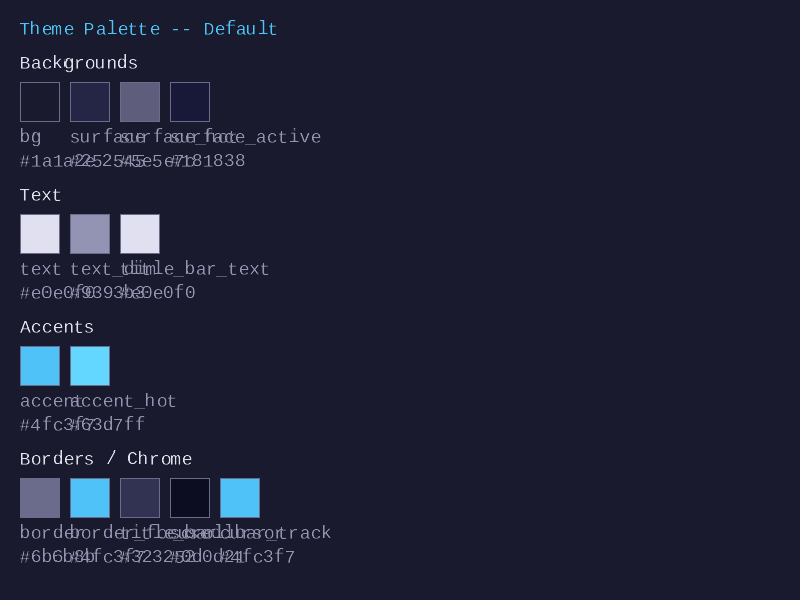
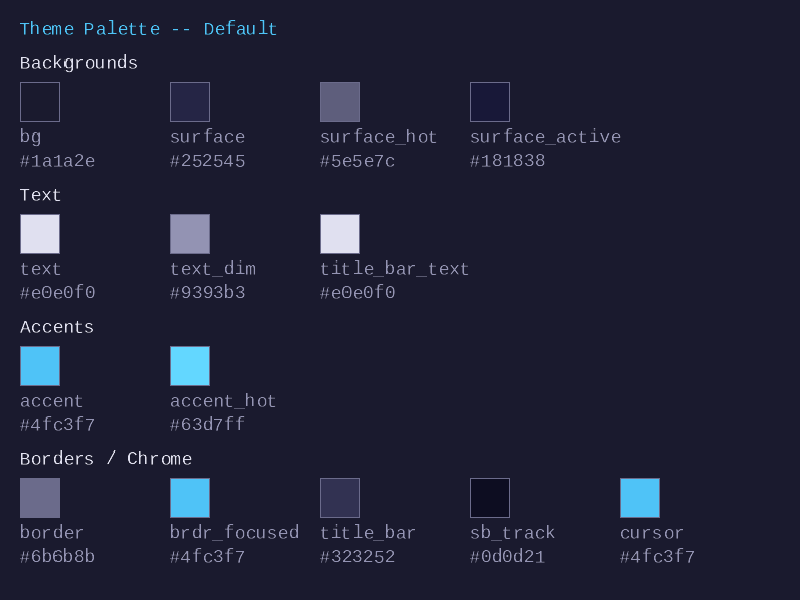
Address PR #164 round 2 review feedback
- Move slider min/max bounds check before *value mutation so invalid
  bounds never touch caller state (forge_ui_ctx.h)
- Fix contrast scale gradient off-by-one: sample full [1, 21] range
  using (n_segments - 1) denominator (ui_diagrams.py)
- Replace SDL_Color with ForgeUiColor in struct diagram display to
  match the actual type name (ui_diagrams.py)
- Extract label test literals into named constants (LABEL_TEST_X/Y/R/
  G/B/A) and use them across all label tests (test_ui_ctx.c)
- Assert clamped channel values in out-of-range label_colored test to
  verify [0,1] clamping (test_ui_ctx.c)
- Add runtime log+cap alongside SDL_assert for validation pair count
  drift so the check works in release builds (lesson 13 main.c)
- Fix swatch layout: split SWATCH_GAP into SWATCH_PITCH (150px
  horizontal) and SWATCH_VGAP (10px vertical) to prevent label overlap;
  abbreviate long slot names (lesson 13 main.c, frame1_palette.png)

diff --git a/tests/ui/test_ui_ctx.c b/tests/ui/test_ui_ctx.c
@@ -489,6 +489,13 @@ static void test_end_null_ctx(void)
 
 /* ── forge_ui_ctx_label tests ───────────────────────────────────────────── */
 
+#define LABEL_TEST_X      10.0f   /* label x position for all label tests */
+#define LABEL_TEST_Y      30.0f   /* label y position for all label tests */
+#define LABEL_TEST_R       1.0f   /* label color red   (white) */
+#define LABEL_TEST_G       1.0f   /* label color green (white) */
+#define LABEL_TEST_B       1.0f   /* label color blue  (white) */
+#define LABEL_TEST_A       1.0f   /* label color alpha (opaque) */
+
 static void test_label_emits_vertices(void)
 {
     TEST("ctx_label: emits vertices for text");
@@ -498,7 +505,9 @@ static void test_label_emits_vertices(void)
     ASSERT_TRUE(forge_ui_ctx_init(&ctx, &test_atlas));
 
     forge_ui_ctx_begin(&ctx, 0.0f, 0.0f, false);
-    forge_ui_ctx_label_colored(&ctx, "AB", 10.0f, 30.0f, 1, 1, 1, 1);
+    forge_ui_ctx_label_colored(&ctx, "AB", LABEL_TEST_X, LABEL_TEST_Y,
+                               LABEL_TEST_R, LABEL_TEST_G, LABEL_TEST_B,
+                               LABEL_TEST_A);
 
     /* 2 visible glyphs -> 2*4 = 8 vertices, 2*6 = 12 indices */
     ASSERT_EQ_INT(ctx.vertex_count, 8);
@@ -517,7 +526,9 @@ static void test_label_empty_string(void)
     ASSERT_TRUE(forge_ui_ctx_init(&ctx, &test_atlas));
 
     forge_ui_ctx_begin(&ctx, 0.0f, 0.0f, false);
-    forge_ui_ctx_label_colored(&ctx, "", 10.0f, 30.0f, 1, 1, 1, 1);
+    forge_ui_ctx_label_colored(&ctx, "", LABEL_TEST_X, LABEL_TEST_Y,
+                               LABEL_TEST_R, LABEL_TEST_G, LABEL_TEST_B,
+                               LABEL_TEST_A);
 
     ASSERT_EQ_INT(ctx.vertex_count, 0);
     ASSERT_EQ_INT(ctx.index_count, 0);
@@ -535,7 +546,9 @@ static void test_label_null_text(void)
     ASSERT_TRUE(forge_ui_ctx_init(&ctx, &test_atlas));
 
     forge_ui_ctx_begin(&ctx, 0.0f, 0.0f, false);
-    forge_ui_ctx_label_colored(&ctx, NULL, 10.0f, 30.0f, 1, 1, 1, 1);
+    forge_ui_ctx_label_colored(&ctx, NULL, LABEL_TEST_X, LABEL_TEST_Y,
+                               LABEL_TEST_R, LABEL_TEST_G, LABEL_TEST_B,
+                               LABEL_TEST_A);
     ASSERT_EQ_INT(ctx.vertex_count, 0);
 
     forge_ui_ctx_end(&ctx);
@@ -545,7 +558,9 @@ static void test_label_null_text(void)
 static void test_label_null_ctx(void)
 {
     TEST("ctx_label: NULL ctx does not crash");
-    forge_ui_ctx_label_colored(NULL, "Hello", 10.0f, 30.0f, 1, 1, 1, 1);
+    forge_ui_ctx_label_colored(NULL, "Hello", LABEL_TEST_X, LABEL_TEST_Y,
+                               LABEL_TEST_R, LABEL_TEST_G, LABEL_TEST_B,
+                               LABEL_TEST_A);
     ASSERT_TRUE(true);
 }
 
@@ -6205,9 +6220,6 @@ static void test_ascender_px_nan_pixel_height(void)
 
 /* ── label_colored RGBA NaN/Inf validation ─────────────────────────────── */
 
-#define TEST_LABEL_COLOR_X   10.0f
-#define TEST_LABEL_COLOR_Y   30.0f
-
 static void test_label_colored_nan_r_rejected(void)
 {
     TEST("label_colored: NaN red channel produces no vertices");
@@ -6216,8 +6228,8 @@ static void test_label_colored_nan_r_rejected(void)
     ASSERT_TRUE(forge_ui_ctx_init(&ctx, &test_atlas));
     forge_ui_ctx_begin(&ctx, 0, 0, false);
     int before = ctx.vertex_count;
-    forge_ui_ctx_label_colored(&ctx, "Test", TEST_LABEL_COLOR_X,
-                               TEST_LABEL_COLOR_Y, NAN, 1, 1, 1);
+    forge_ui_ctx_label_colored(&ctx, "Test", LABEL_TEST_X,
+                               LABEL_TEST_Y, NAN, 1, 1, 1);
     ASSERT_EQ_INT(ctx.vertex_count, before);
     forge_ui_ctx_end(&ctx);
     forge_ui_ctx_free(&ctx);
@@ -6231,8 +6243,8 @@ static void test_label_colored_nan_g_rejected(void)
     ASSERT_TRUE(forge_ui_ctx_init(&ctx, &test_atlas));
     forge_ui_ctx_begin(&ctx, 0, 0, false);
     int before = ctx.vertex_count;
-    forge_ui_ctx_label_colored(&ctx, "Test", TEST_LABEL_COLOR_X,
-                               TEST_LABEL_COLOR_Y, 1, NAN, 1, 1);
+    forge_ui_ctx_label_colored(&ctx, "Test", LABEL_TEST_X,
+                               LABEL_TEST_Y, 1, NAN, 1, 1);
     ASSERT_EQ_INT(ctx.vertex_count, before);
     forge_ui_ctx_end(&ctx);
     forge_ui_ctx_free(&ctx);
@@ -6246,8 +6258,8 @@ static void test_label_colored_nan_b_rejected(void)
     ASSERT_TRUE(forge_ui_ctx_init(&ctx, &test_atlas));
     forge_ui_ctx_begin(&ctx, 0, 0, false);
     int before = ctx.vertex_count;
-    forge_ui_ctx_label_colored(&ctx, "Test", TEST_LABEL_COLOR_X,
-                               TEST_LABEL_COLOR_Y, 1, 1, NAN, 1);
+    forge_ui_ctx_label_colored(&ctx, "Test", LABEL_TEST_X,
+                               LABEL_TEST_Y, 1, 1, NAN, 1);
     ASSERT_EQ_INT(ctx.vertex_count, before);
     forge_ui_ctx_end(&ctx);
     forge_ui_ctx_free(&ctx);
@@ -6261,8 +6273,8 @@ static void test_label_colored_nan_a_rejected(void)
     ASSERT_TRUE(forge_ui_ctx_init(&ctx, &test_atlas));
     forge_ui_ctx_begin(&ctx, 0, 0, false);
     int before = ctx.vertex_count;
-    forge_ui_ctx_label_colored(&ctx, "Test", TEST_LABEL_COLOR_X,
-                               TEST_LABEL_COLOR_Y, 1, 1, 1, NAN);
+    forge_ui_ctx_label_colored(&ctx, "Test", LABEL_TEST_X,
+                               LABEL_TEST_Y, 1, 1, 1, NAN);
     ASSERT_EQ_INT(ctx.vertex_count, before);
     forge_ui_ctx_end(&ctx);
     forge_ui_ctx_free(&ctx);
@@ -6276,8 +6288,8 @@ static void test_label_colored_inf_r_rejected(void)
     ASSERT_TRUE(forge_ui_ctx_init(&ctx, &test_atlas));
     forge_ui_ctx_begin(&ctx, 0, 0, false);
     int before = ctx.vertex_count;
-    forge_ui_ctx_label_colored(&ctx, "Test", TEST_LABEL_COLOR_X,
-                               TEST_LABEL_COLOR_Y, INFINITY, 1, 1, 1);
+    forge_ui_ctx_label_colored(&ctx, "Test", LABEL_TEST_X,
+                               LABEL_TEST_Y, INFINITY, 1, 1, 1);
     ASSERT_EQ_INT(ctx.vertex_count, before);
     forge_ui_ctx_end(&ctx);
     forge_ui_ctx_free(&ctx);
@@ -6291,8 +6303,8 @@ static void test_label_colored_inf_neg_g_rejected(void)
     ASSERT_TRUE(forge_ui_ctx_init(&ctx, &test_atlas));
     forge_ui_ctx_begin(&ctx, 0, 0, false);
     int before = ctx.vertex_count;
-    forge_ui_ctx_label_colored(&ctx, "Test", TEST_LABEL_COLOR_X,
-                               TEST_LABEL_COLOR_Y, 1, -INFINITY, 1, 1);
+    forge_ui_ctx_label_colored(&ctx, "Test", LABEL_TEST_X,
+                               LABEL_TEST_Y, 1, -INFINITY, 1, 1);
     ASSERT_EQ_INT(ctx.vertex_count, before);
     forge_ui_ctx_end(&ctx);
     forge_ui_ctx_free(&ctx);
@@ -6305,12 +6317,18 @@ static void test_label_colored_out_of_range_clamped(void)
     ForgeUiContext ctx;
     ASSERT_TRUE(forge_ui_ctx_init(&ctx, &test_atlas));
     forge_ui_ctx_begin(&ctx, 0, 0, false);
-    forge_ui_ctx_label_colored(&ctx, "AB", TEST_LABEL_COLOR_X,
-                               TEST_LABEL_COLOR_Y, 2.0f, -0.5f, 1.5f, 1.0f);
+    forge_ui_ctx_label_colored(&ctx, "AB", LABEL_TEST_X,
+                               LABEL_TEST_Y, 2.0f, -0.5f, 1.5f, 1.0f);
     /* Out-of-range but finite values are clamped — vertices should be emitted.
      * "AB" = 2 visible glyphs -> 2*4 = 8 vertices */
     ASSERT_TRUE(ctx.vertex_count > 0);
     ASSERT_EQ_INT(ctx.vertex_count, 8);
+    /* Verify channels are clamped to [0, 1] in the emitted vertex data.
+     * Input was (2.0, -0.5, 1.5, 1.0) → expect (1.0, 0.0, 1.0, 1.0). */
+    ASSERT_NEAR(ctx.vertices[0].r, 1.0f, 0.001f);
+    ASSERT_NEAR(ctx.vertices[0].g, 0.0f, 0.001f);
+    ASSERT_NEAR(ctx.vertices[0].b, 1.0f, 0.001f);
+    ASSERT_NEAR(ctx.vertices[0].a, 1.0f, 0.001f);
     forge_ui_ctx_end(&ctx);
     forge_ui_ctx_free(&ctx);
 }

diff --git a/lessons/ui/13-theming-and-color-system/main.c b/lessons/ui/13-theming-and-color-system/main.c
@@ -35,7 +35,10 @@
 #define FONT_PATH          "assets/fonts/liberation_mono/LiberationMono-Regular.ttf"
 #define FONT_PX            18.0f /* font rasterization height in pixels */
 #define SWATCH_SIZE        40.0f /* color swatch square side length */
-#define SWATCH_GAP         10.0f /* horizontal gap between swatches */
+#define SWATCH_PITCH      150.0f /* horizontal distance between swatch left edges —
+                                  * wide enough for the longest slot name
+                                  * ("scrollbar_track", ~15 chars × ~11px) */
+#define SWATCH_VGAP        10.0f /* vertical gap between swatch rows */
 #define SWATCH_LABEL_GAP    6.0f /* vertical gap between swatch and its label */
 #define MARGIN             20.0f /* outer margin from framebuffer edges */
 #define LABEL_HEIGHT       24.0f /* default label row height for text lines */
@@ -51,7 +54,7 @@
 
 /* Panel layout constants */
 #define GROUP_TITLE_HEIGHT 28.0f  /* height allocated for group title labels */
-#define SWATCH_ROW_HEIGHT  (SWATCH_SIZE + SWATCH_LABEL_GAP + LABEL_HEIGHT + SWATCH_GAP)
+#define SWATCH_ROW_HEIGHT  (SWATCH_SIZE + SWATCH_LABEL_GAP + LABEL_HEIGHT + SWATCH_VGAP)
 
 /* Widget showcase constants */
 #define WIDGET_ROW_HEIGHT  28.0f  /* height for checkbox/slider rows */
@@ -156,11 +159,11 @@ static void build_swatch_groups(const ForgeUiTheme *theme,
     /* Group 3: Borders / Chrome */
     groups[3].title = "Borders / Chrome";
     groups[3].count = 5;
-    groups[3].swatches[0] = (SwatchInfo){ "border",          theme->border };
-    groups[3].swatches[1] = (SwatchInfo){ "border_focused",  theme->border_focused };
-    groups[3].swatches[2] = (SwatchInfo){ "title_bar",       theme->title_bar };
-    groups[3].swatches[3] = (SwatchInfo){ "scrollbar_track", theme->scrollbar_track };
-    groups[3].swatches[4] = (SwatchInfo){ "cursor",          theme->cursor };
+    groups[3].swatches[0] = (SwatchInfo){ "border",       theme->border };
+    groups[3].swatches[1] = (SwatchInfo){ "brdr_focused", theme->border_focused };
+    groups[3].swatches[2] = (SwatchInfo){ "title_bar",    theme->title_bar };
+    groups[3].swatches[3] = (SwatchInfo){ "sb_track",     theme->scrollbar_track };
+    groups[3].swatches[4] = (SwatchInfo){ "cursor",       theme->cursor };
 }
 
 /* ── Render helper: rasterize and write BMP ────────────────────────────── */
@@ -229,7 +232,7 @@ static bool render_frame_palette(ForgeRasterBuffer *fb,
 
     /* Draw each swatch group: a title label followed by a row of colored
      * rectangles, each annotated with the slot name and hex color value. */
-    float group_y = MARGIN + LABEL_HEIGHT + SWATCH_GAP;
+    float group_y = MARGIN + LABEL_HEIGHT + SWATCH_VGAP;
 
     for (int g = 0; g < SWATCH_GROUP_COUNT; g++) {
         const SwatchGroup *grp = &groups[g];
@@ -242,7 +245,7 @@ static bool render_frame_palette(ForgeRasterBuffer *fb,
         float swatch_y = group_y + GROUP_TITLE_HEIGHT;
 
         for (int s = 0; s < grp->count; s++) {
-            float swatch_x = MARGIN + (float)s * (SWATCH_SIZE + SWATCH_GAP);
+            float swatch_x = MARGIN + (float)s * SWATCH_PITCH;
 
             /* Draw the colored swatch rectangle.  We deliberately use
              * internal emitters here because the public API has no
@@ -318,7 +321,7 @@ static bool render_frame_widgets(ForgeRasterBuffer *fb,
     /* Panel containing the widget demo.  The panel draws its own title bar,
      * background, and scrollable content area using theme colors. */
     float panel_x = MARGIN;
-    float panel_y = MARGIN + LABEL_HEIGHT + SWATCH_GAP;
+    float panel_y = MARGIN + LABEL_HEIGHT + SWATCH_VGAP;
     float panel_w = (float)FRAME_W - 2.0f * MARGIN;
     float panel_h = (float)FRAME_H - panel_y - MARGIN;
     ForgeUiRect panel_rect = { panel_x, panel_y, panel_w, panel_h };
@@ -565,12 +568,20 @@ static bool render_frame_bad_theme(ForgeRasterBuffer *fb,
     /* Sanity check: our local pair table must stay in sync with the
      * canonical validator in forge_ui_theme_validate().  If someone adds
      * a pair to one list but not the other, this will fire and the
-     * mismatch can be fixed before it ships. */
+     * mismatch can be fixed before it ships.
+     * SDL_assert is stripped in release builds, so also log and cap at
+     * runtime to keep the lesson correct in all configurations. */
     SDL_assert(pair_count == EXPECTED_VALIDATION_PAIR_COUNT &&
                "build_validation_pairs pair count drifted from "
                "EXPECTED_VALIDATION_PAIR_COUNT -- update both lists");
+    if (pair_count != EXPECTED_VALIDATION_PAIR_COUNT) {
+        SDL_Log("WARNING: pair_count %d != EXPECTED %d — table drift",
+                pair_count, EXPECTED_VALIDATION_PAIR_COUNT);
+        if (pair_count > EXPECTED_VALIDATION_PAIR_COUNT)
+            pair_count = EXPECTED_VALIDATION_PAIR_COUNT;
+    }
 
-    float row_y = MARGIN + 2.0f * LABEL_HEIGHT + SWATCH_GAP;
+    float row_y = MARGIN + 2.0f * LABEL_HEIGHT + SWATCH_VGAP;
 
     for (int i = 0; i < pair_count; i++) {
         float ratio = forge_ui_theme_contrast_ratio(

diff --git a/scripts/forge_diagrams/ui_diagrams.py b/scripts/forge_diagrams/ui_diagrams.py
@@ -10374,7 +10374,7 @@ def diagram_contrast_ratio_scale():
     bar_h = 0.8
     n_segments = 200
     for i in range(n_segments):
-        ratio = 1.0 + (21.0 - 1.0) * i / n_segments
+        ratio = 1.0 + (21.0 - 1.0) * i / (n_segments - 1)
         x = 1.0 + (ratio - 1.0) * (20.0 / 20.0)
         w = 20.0 / n_segments
         # Color ramp: dark red -> yellow -> green
@@ -11030,20 +11030,20 @@ def diagram_before_after_theming():
 
     struct_lines = [
         ("typedef struct {", STYLE["accent3"]),
-        ("    SDL_Color bg;", STYLE["accent1"]),
-        ("    SDL_Color surface;", STYLE["accent1"]),
-        ("    SDL_Color surface_hot;", STYLE["accent1"]),
-        ("    SDL_Color surface_active;", STYLE["accent1"]),
-        ("    SDL_Color title_bar;", STYLE["accent1"]),
-        ("    SDL_Color title_bar_text;", STYLE["accent3"]),
-        ("    SDL_Color text;", STYLE["accent3"]),
-        ("    SDL_Color text_dim;", STYLE["accent3"]),
-        ("    SDL_Color accent;", STYLE["accent2"]),
-        ("    SDL_Color accent_hot;", STYLE["accent2"]),
-        ("    SDL_Color border;", STYLE["accent4"]),
-        ("    SDL_Color border_focused;", STYLE["accent4"]),
-        ("    SDL_Color scrollbar_track;", STYLE["accent4"]),
-        ("    SDL_Color cursor;", STYLE["accent4"]),
+        ("    ForgeUiColor bg;", STYLE["accent1"]),
+        ("    ForgeUiColor surface;", STYLE["accent1"]),
+        ("    ForgeUiColor surface_hot;", STYLE["accent1"]),
+        ("    ForgeUiColor surface_active;", STYLE["accent1"]),
+        ("    ForgeUiColor title_bar;", STYLE["accent1"]),
+        ("    ForgeUiColor title_bar_text;", STYLE["accent3"]),
+        ("    ForgeUiColor text;", STYLE["accent3"]),
+        ("    ForgeUiColor text_dim;", STYLE["accent3"]),
+        ("    ForgeUiColor accent;", STYLE["accent2"]),
+        ("    ForgeUiColor accent_hot;", STYLE["accent2"]),
+        ("    ForgeUiColor border;", STYLE["accent4"]),
+        ("    ForgeUiColor border_focused;", STYLE["accent4"]),
+        ("    ForgeUiColor scrollbar_track;", STYLE["accent4"]),
+        ("    ForgeUiColor cursor;", STYLE["accent4"]),
         ("} ForgeUiTheme;", STYLE["accent3"]),
     ]
 

diff --git a/common/ui/forge_ui_ctx.h b/common/ui/forge_ui_ctx.h
@@ -1594,11 +1594,11 @@ static inline bool forge_ui_ctx_slider(ForgeUiContext *ctx,
     if (!isfinite(rect.x) || !isfinite(rect.y) ||
         !isfinite(rect.w) || !isfinite(rect.h)) return false;
     if (!isfinite(min_val) || !isfinite(max_val)) return false;
+    if (!(max_val > min_val)) return false;  /* also rejects equal */
     /* Sanitize *value: NaN/Inf would poison the thumb position and
      * propagate into vertex data.  Clamp to min_val as a safe default. */
     if (!isfinite(*value)) *value = min_val;
     Uint32 id = forge_ui_hash_id(ctx, label);
-    if (!(max_val > min_val)) return false;  /* also rejects equal */
 
     bool changed = false;
 
